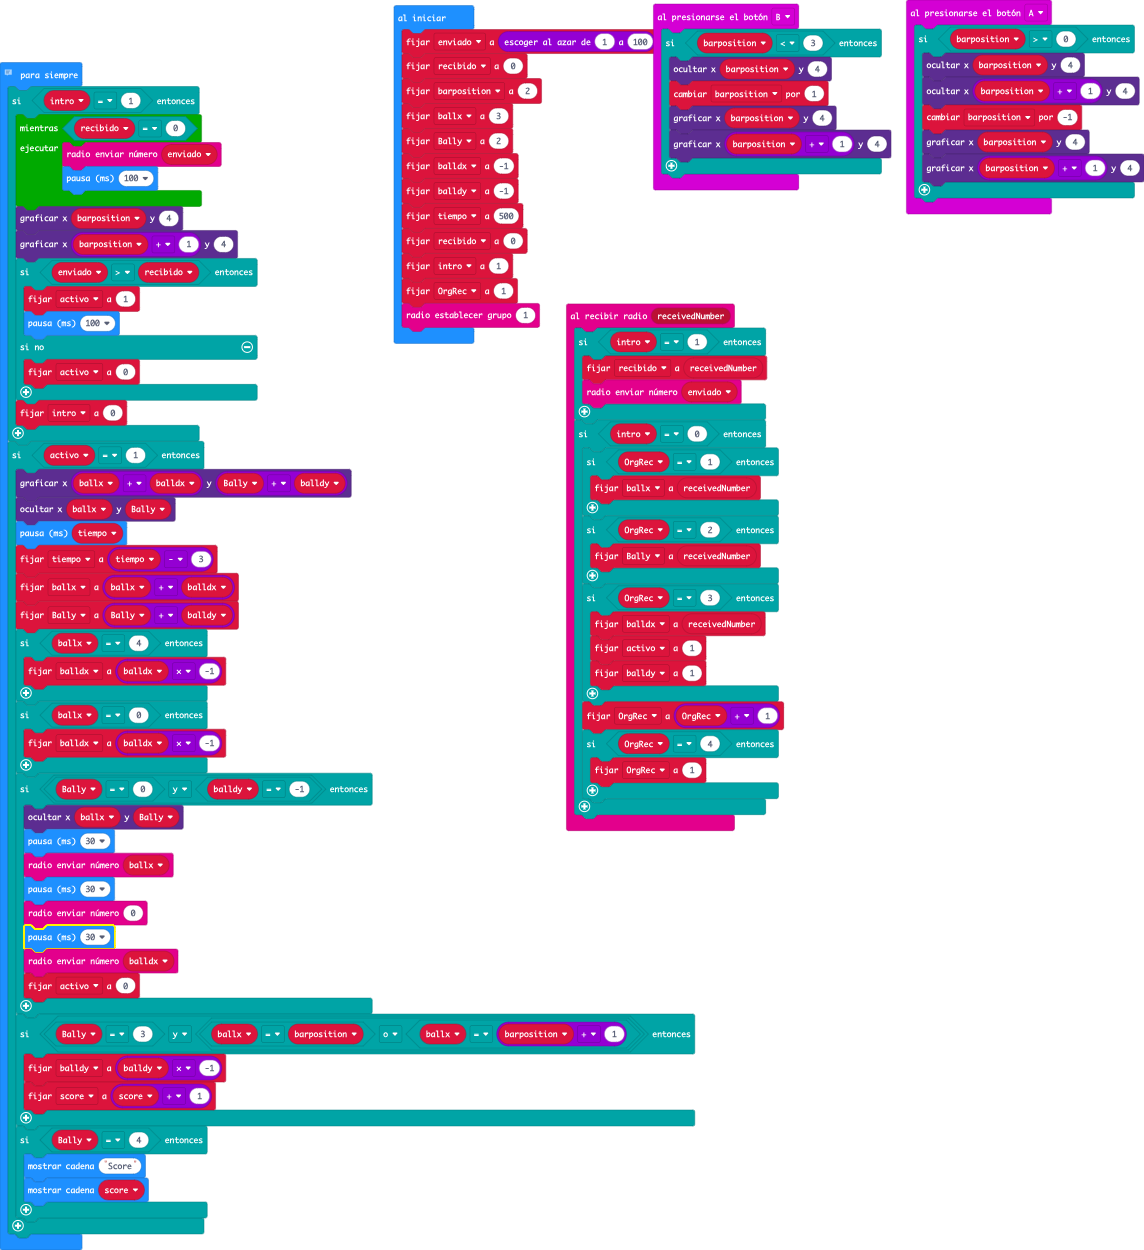
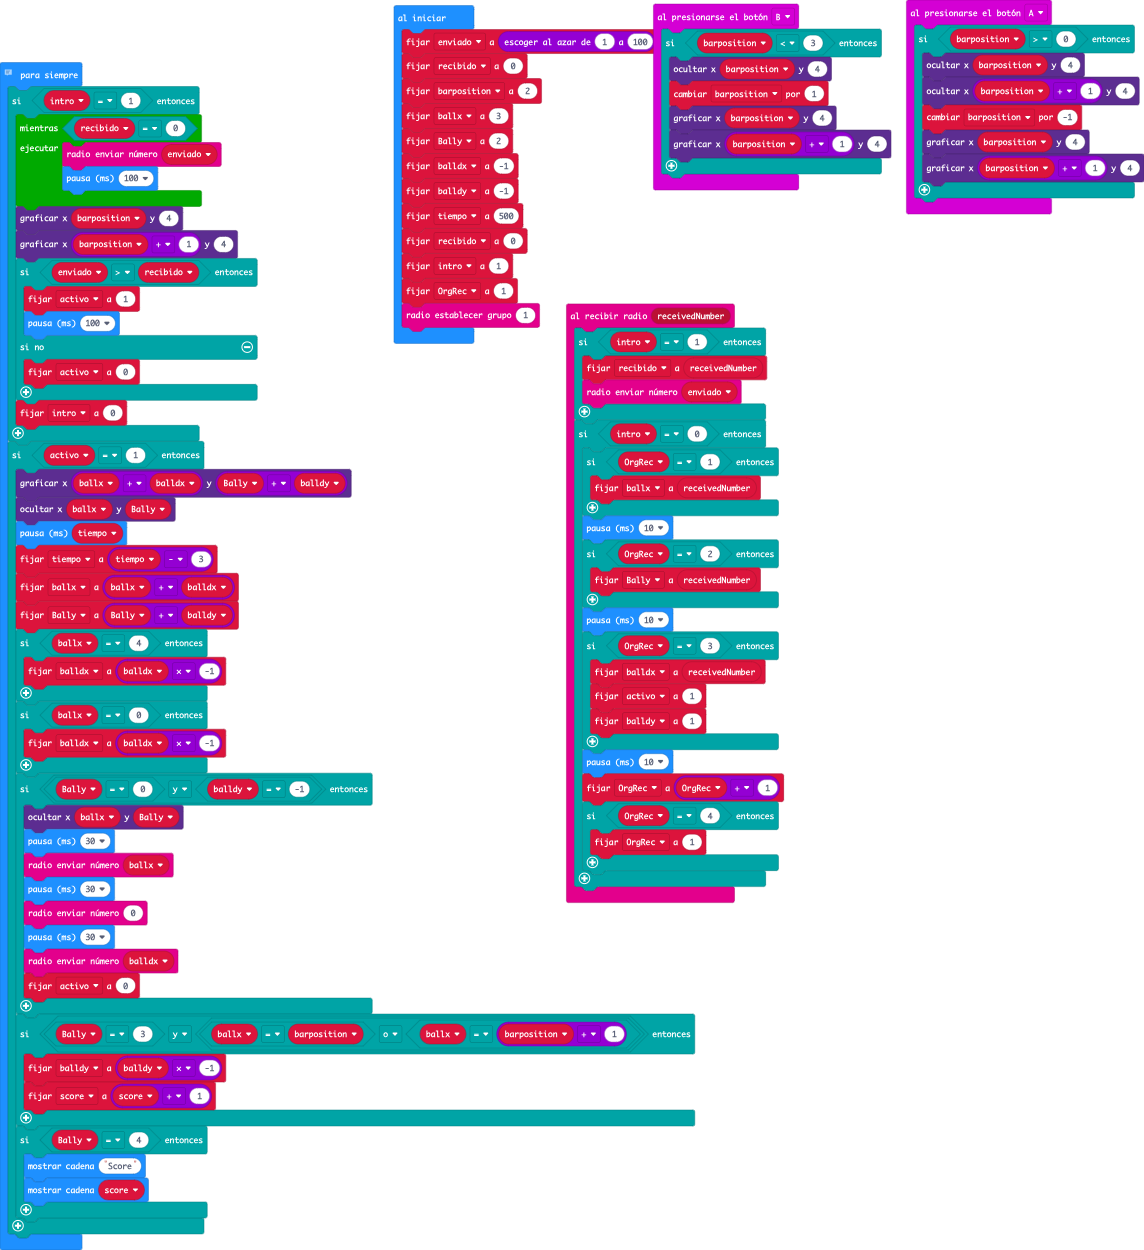
10293848576

Changed region(s): [[0.4895, 0.4056, 0.7037, 0.7488]]

diff --git a/main.ts b/main.ts
@@ -10,14 +10,17 @@ radio.onReceivedNumber(function (receivedNumber) {
         if (OrgRec == 1) {
             ballx = receivedNumber
         }
+        basic.pause(10)
         if (OrgRec == 2) {
             Bally = receivedNumber
         }
+        basic.pause(10)
         if (OrgRec == 3) {
             balldx = receivedNumber
             activo = 1
             balldy = 1
         }
+        basic.pause(10)
         OrgRec = OrgRec + 1
         if (OrgRec == 4) {
             OrgRec = 1
